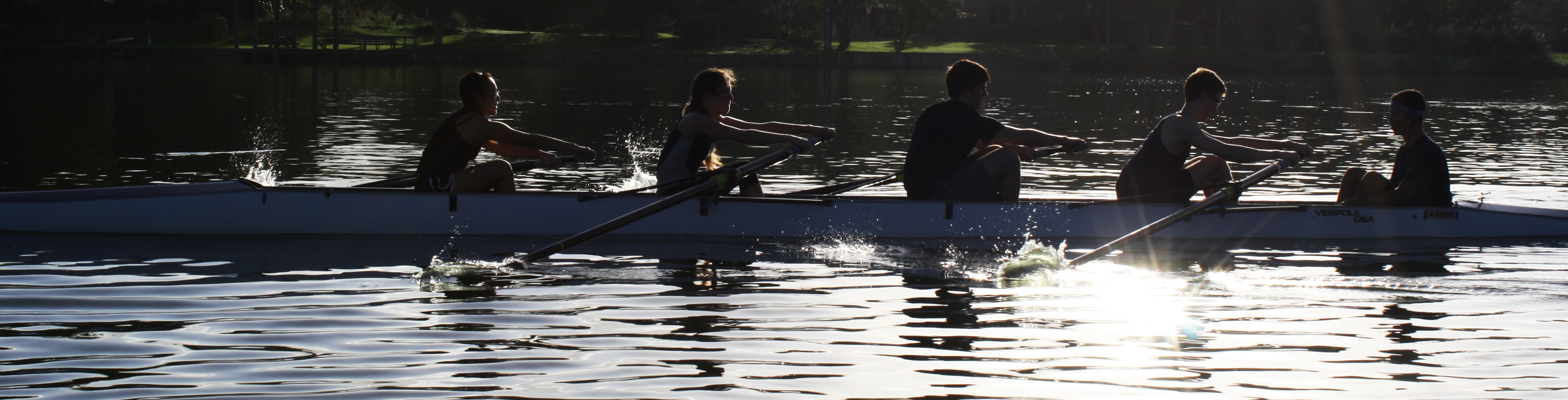
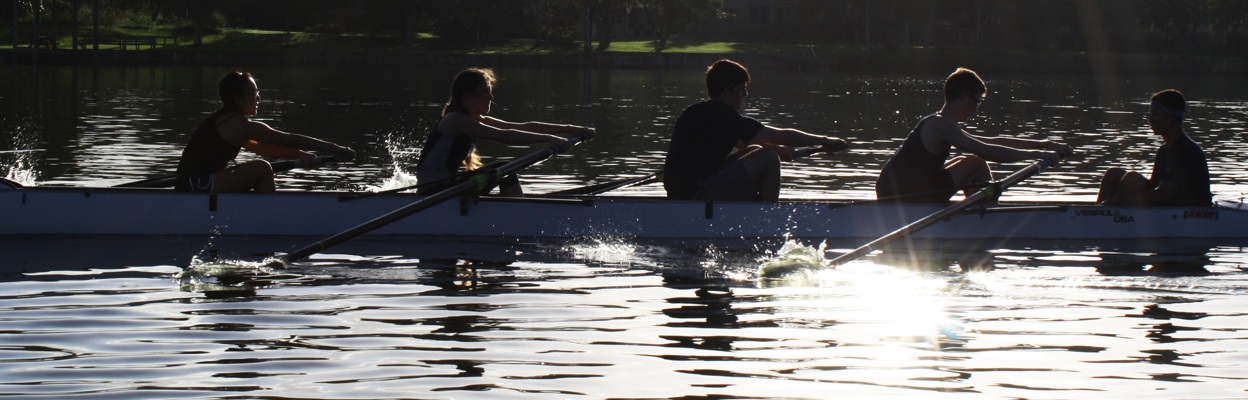
Restored fixed width layout

diff --git a/ricecrew/static/css/style.css b/ricecrew/static/css/style.css
@@ -98,8 +98,7 @@ p.separate
 
 .pagewidth
 {
-    min-width: 960px;
-    max-width: 1280px;
+    width: 960px;
     margin: 0 auto;
 }
 
@@ -150,7 +149,7 @@ nav#mainnav > ul > li
 
 div.hero, div.minihero
 {
-    max-width: 1440px;
+    max-width: 1120px;
     position: relative;
     margin: 0 auto;
     overflow: hidden;
@@ -170,7 +169,7 @@ div.hero
 
 div.hero > img
 {
-    left: -784px;
+    left: -624px;
     opacity: 1;
 
     -webkit-transition-property: left, opacity;
@@ -188,7 +187,7 @@ div.hero > img
 
 div.hero > img.next
 {
-    left: -720px;
+    left: -560px;
     opacity: 0;
 
     -webkit-transition-duration: 0s;
@@ -200,7 +199,7 @@ div.hero > img.next
 
 div.hero > img.prev
 {
-    left: -848px;
+    left: -688px;
     opacity: 0;
 }
 
@@ -211,7 +210,7 @@ div.minihero
 
 div.minihero > img
 {
-    left: -720px;
+    left: -560px;
 }
 
 
